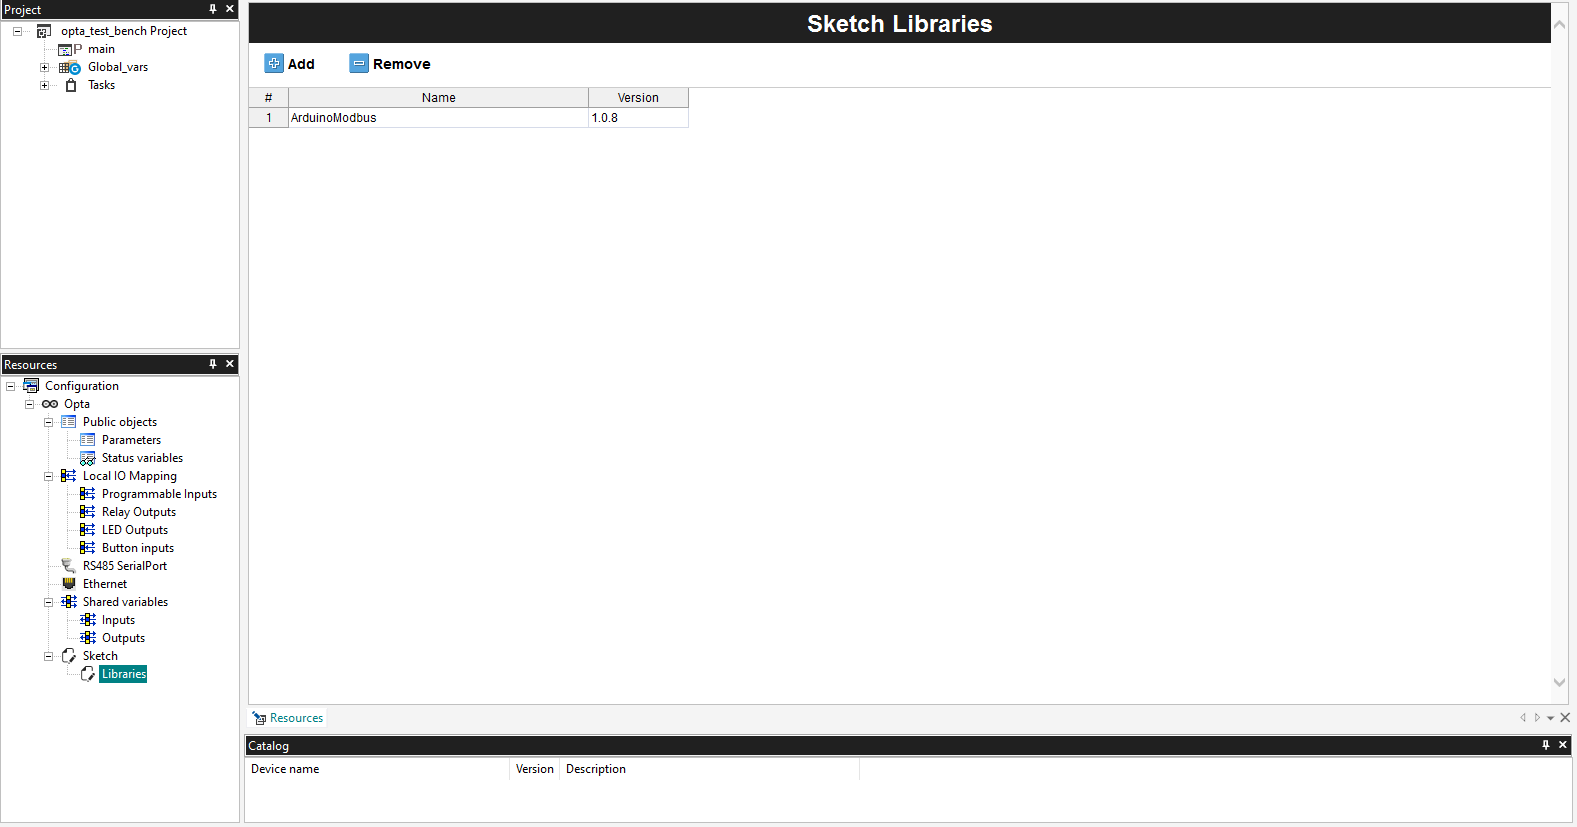
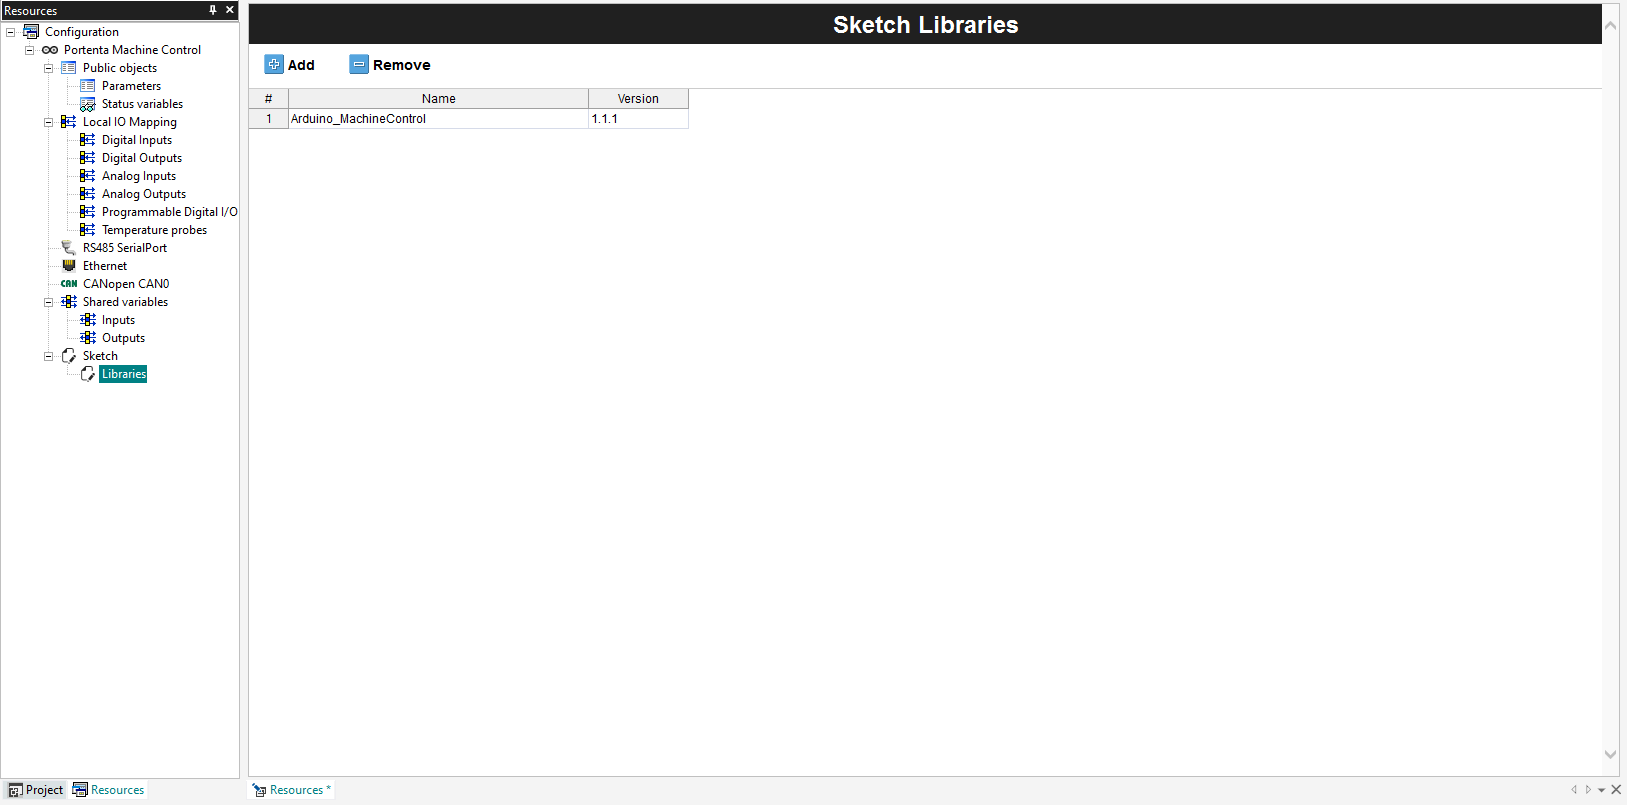
Tutorial content update

Changed region(s): [[0.0, 0.0, 1.0, 1.0], [0.3418, 0.0932, 0.435, 0.1553]]

diff --git a/content/software/plc-ide/tutorials/plc-programming-introduction/content.md b/content/software/plc-ide/tutorials/plc-programming-introduction/content.md
@@ -110,9 +110,9 @@ The PLC IDE manages the library add-on and usage differently. To add the desired
 
 With the 'Sketch Libraries' window open, click the **Add** option and fill out the library name. You will have to fill in the needed library version as well. It is possible to find this information using the [Arduino Library List](https://www.arduinolibraries.info/) or by navigating manually to the local libraries directory and obtaining meta-data from 'library.properties' if you have the released library file locally.
 
-For example, if you want to add the 1.0.8 version of the 'ArduinoModbus' library, respective information must be introduced to its fields accordingly.
+For example, if you want to add the 1.1.1 version of the 'Arduino_MachineControl' library, respective information must be introduced to its fields accordingly.
 
-![Sketch Libraries window with ArduinoModbus library added](assets/plcide-sketch-libraries-added.png)
+![Sketch Libraries window with Arduino_MachineControl library added](assets/plcide-sketch-libraries-added.png)
 
 Once you have followed the previous steps, the libraries will be available for use. A library of choice can be removed by clicking on the **Remove** option within the 'Sketch Libraries' window.
 
